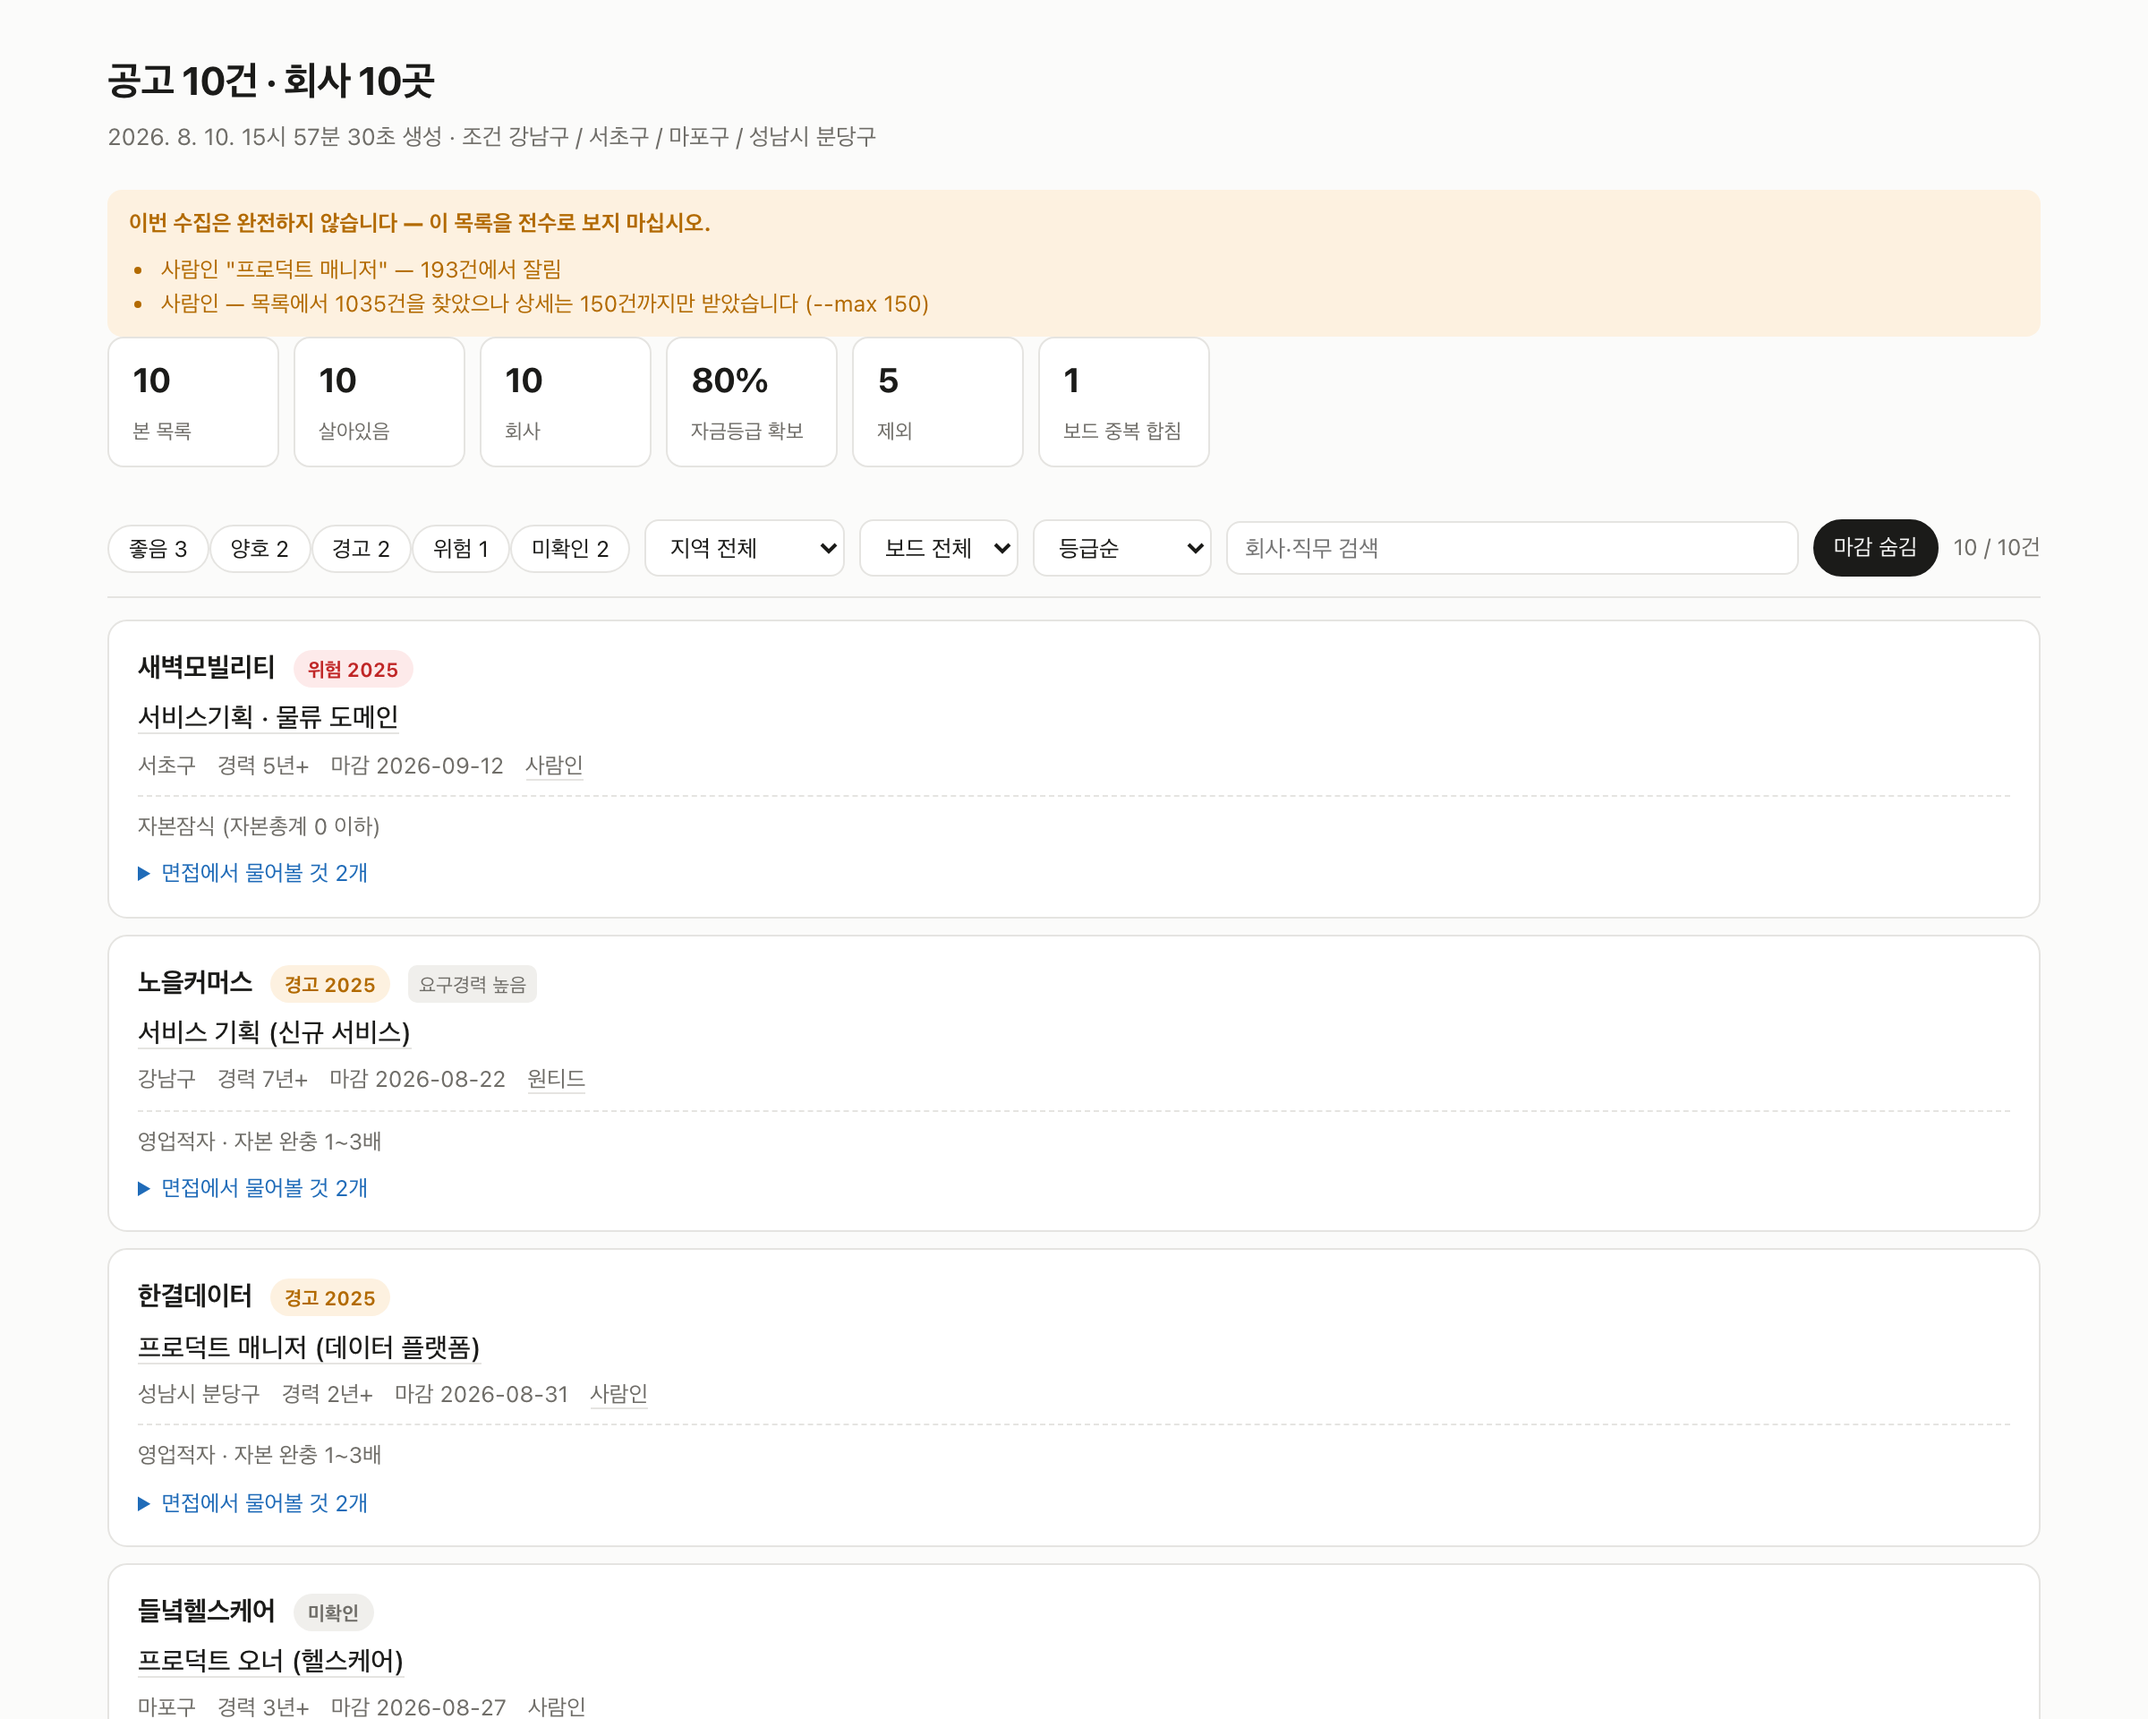
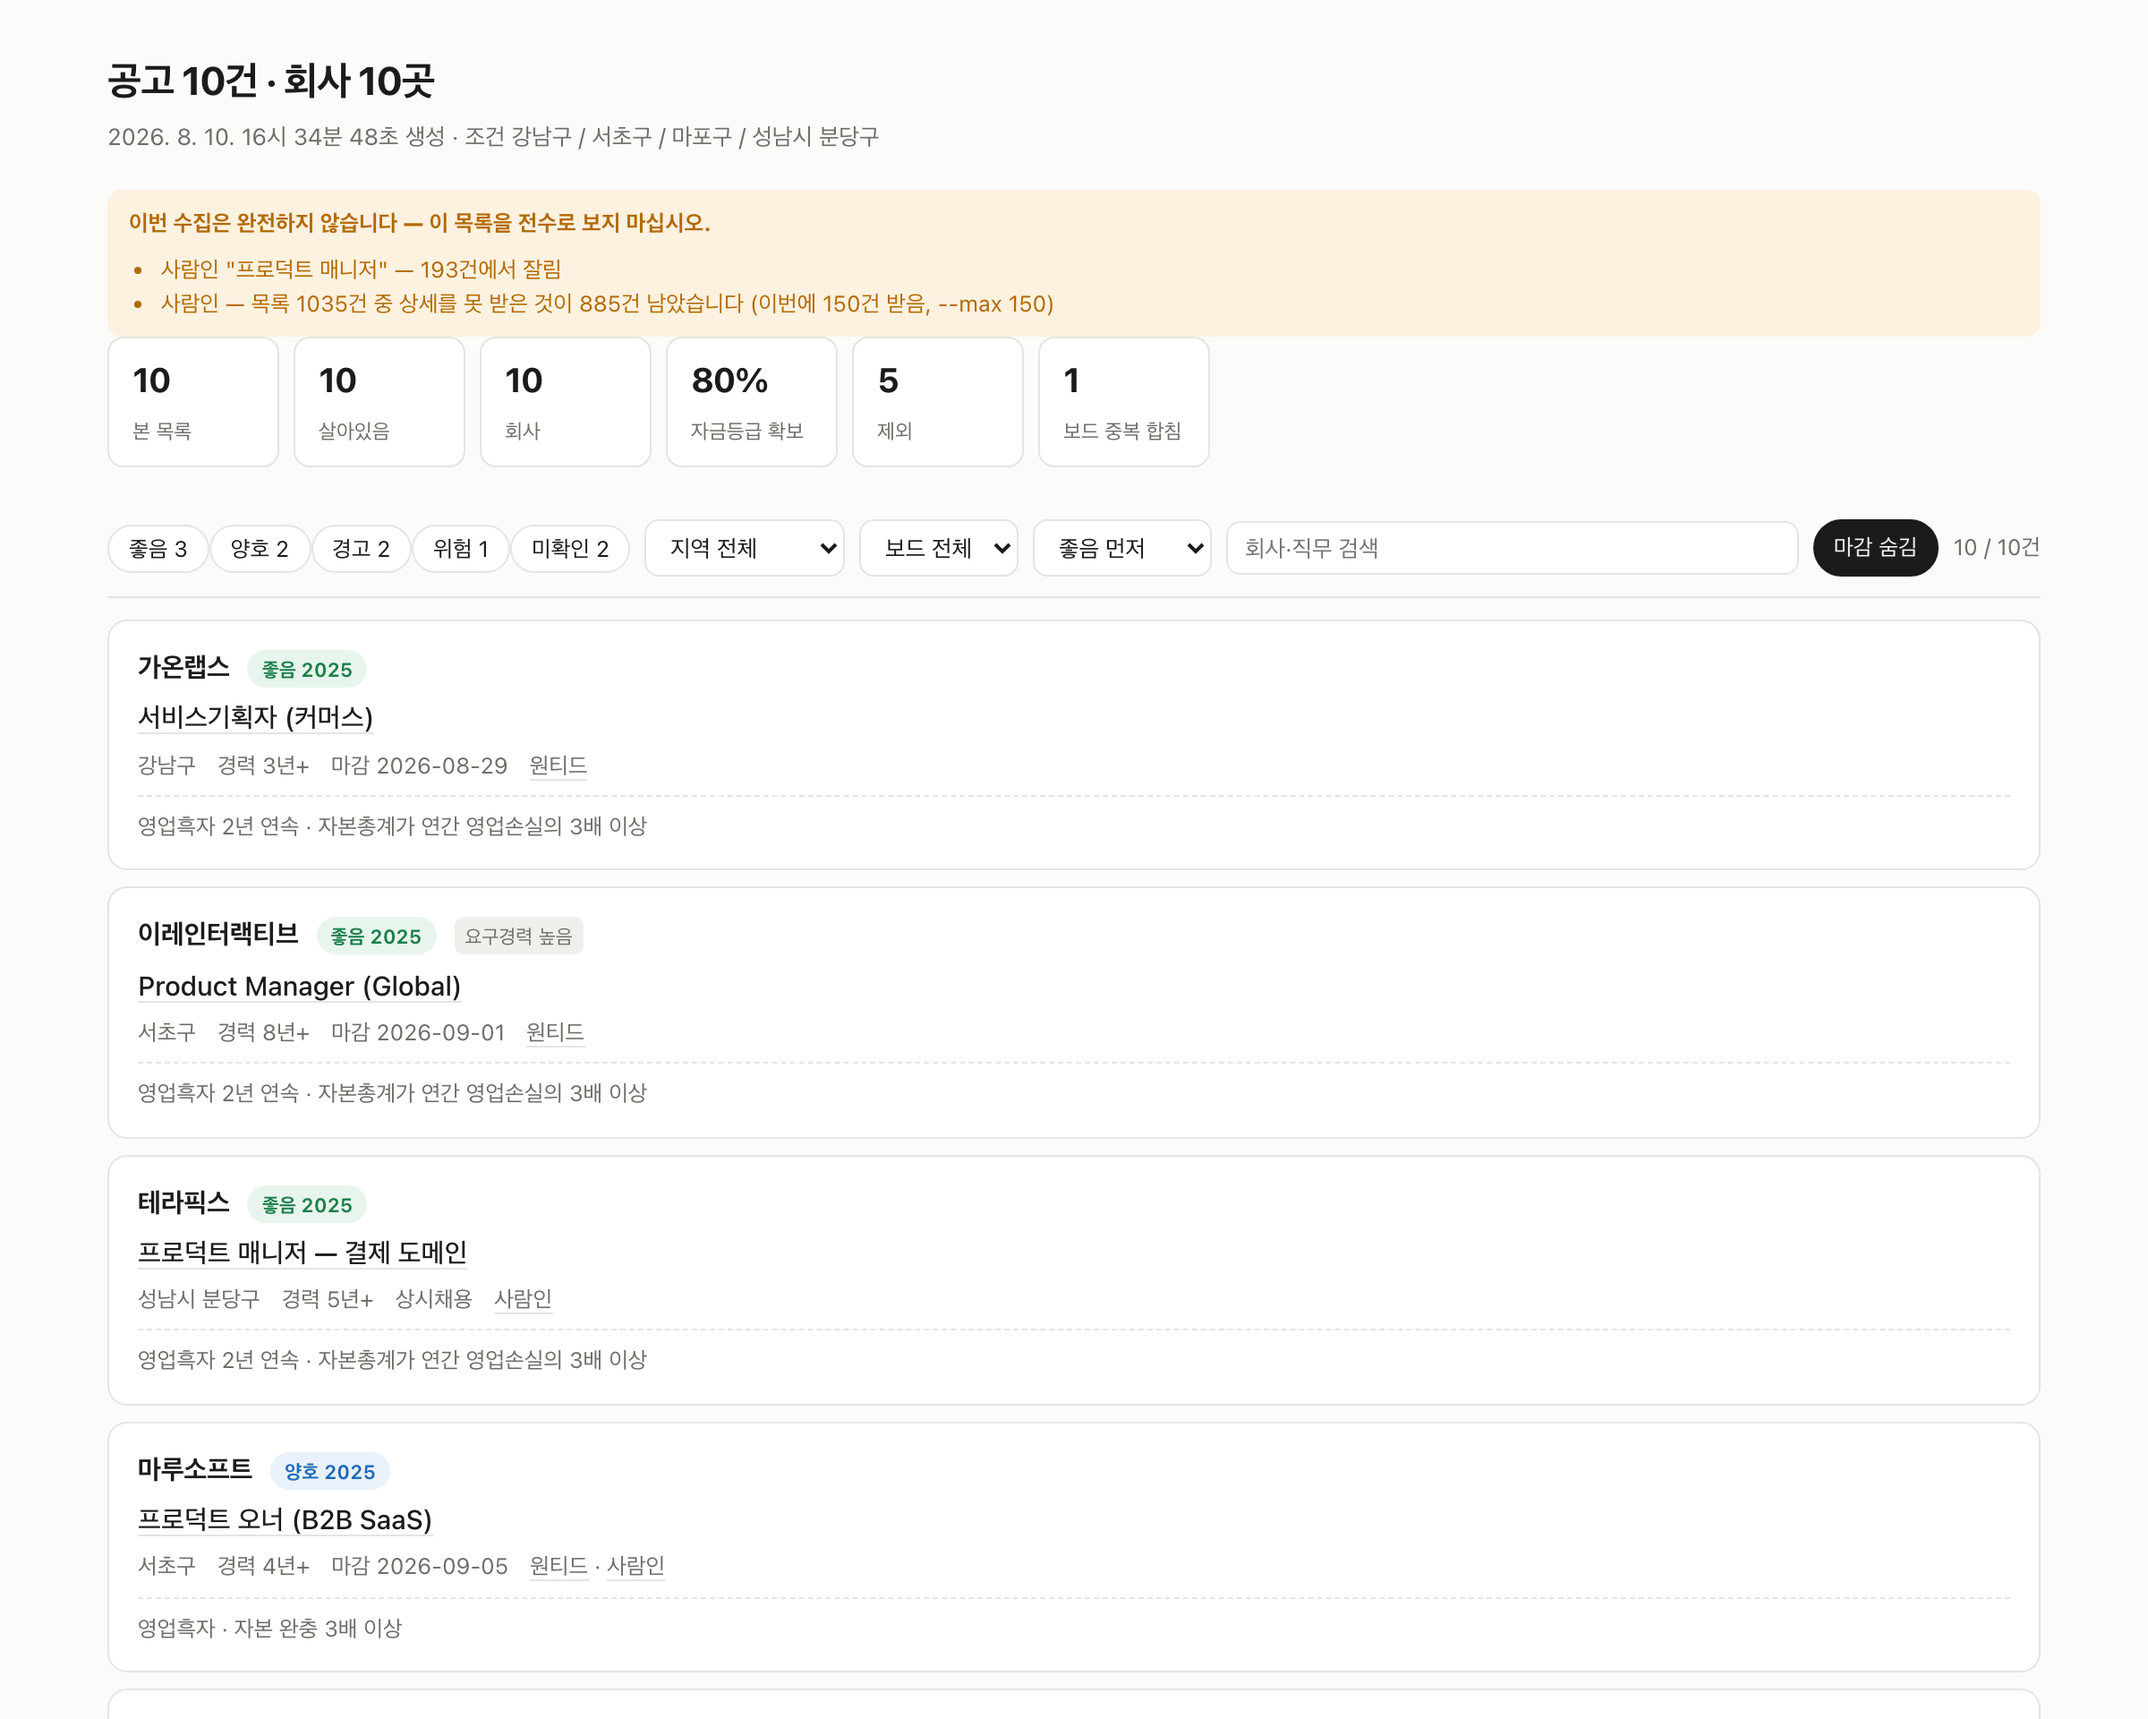
첫 실행은 상세 전량 · 상한은 받을 건수만 셈 · 기본 정렬 좋음 먼저 (D23~D25)
CEO 결정 3건 반영.

D23 첫 실행은 상한 없이 전량. 목록 유니크 1035건인데 기본 200이면 첫 목록이 19%다.
     처음 만들어진 목록이 5분의 1이면 사용자는 그 5분의 1을 자기 시장 전부로 읽는다 —
     경고 한 줄로는 첫 화면이 만드는 오해를 못 막는다.
     대신 말 없이 30분을 쓰지 않는다: 시작 전에 건수·예상 시간·줄이는 법을 먼저 적는다.

D24 상한이 세는 것을 후보 건수 → 실제로 받아야 하는 건수로. 고치다 찾은 것인데,
     재실행 때 앞 200건이 전부 캐시여도 예산이 소진돼 목록 뒤쪽의 새 공고가 영영 안 받아졌다.

D25 기본 정렬을 좋음 먼저로. 이 화면에서 하려는 일은 지원할 곳을 고르는 것이라
     위험이 위에 깔리면 정작 볼 것이 바닥에 간다. "등급순"은 방향을 말해 주지 않아
     라벨을 좋음 먼저 / 위험 먼저로 나눴다. 미확인은 양쪽 다 맨 뒤.

D23·D24 규칙은 lib/saramin.mjs 의 planDetailBudget 로 뺐다 — #66 에서
"스크립트 본문 출력은 테스트가 못 문다"고 적어 놓고 같은 자리에 규칙을 또 둘 수 없었다.

곁가지로 잘림 경고 문구도 고쳤다. "0/292 잘림"은 캐시분을 섞어 세어 실제보다 크게
잃은 것처럼 보였다 — 못 받은 건수를 따로 세어 앞에 놓는다.

회귀 320 → 338건 전부 통과, 통합 테스트 exit 0. 정렬 기본값·라벨은 통합 테스트가 감시한다.

diff --git a/skills/jd-search/scripts/templates/report.html b/skills/jd-search/scripts/templates/report.html
@@ -95,7 +95,8 @@ details.q li{margin-bottom:4px}
     <select id="region"></select>
     <select id="board"></select>
     <select id="sort">
-      <option value="grade">등급순</option>
+      <option value="grade">좋음 먼저</option>
+      <option value="risk">위험 먼저</option>
       <option value="recent">최신 수집순</option>
       <option value="company">회사명순</option>
       <option value="distance">직선거리순</option>
@@ -116,7 +117,12 @@ details.q li{margin-bottom:4px}
 const D = JSON.parse(document.getElementById('data').textContent);
 const $ = s => document.querySelector(s);
 const el = (t, c, x) => { const n = document.createElement(t); if (c) n.className = c; if (x != null) n.textContent = x; return n; };
-const ORDER = { r: 0, w: 1, u: 2, o: 3, g: 4 };
+// 🔴 기본은 **좋음 먼저**다. 사용자가 이 화면에서 하려는 일은 지원할 곳을 고르는 것이다.
+//    위험을 맨 위에 올리면 경고는 잘 보이지만 정작 볼 것이 목록 바닥에 깔린다.
+//    경고를 먼저 보고 싶을 때가 있어 "위험 먼저"를 따로 남겨 뒀다 — 라벨이 방향을 말하게 했다.
+//    미확인은 어느 방향에서도 맨 뒤다. 좋은 것도 나쁜 것도 아니라 **아직 모르는 것**이다.
+const ORDER = { g: 0, o: 1, w: 2, r: 3, u: 4 };
+const ORDER_RISK = { r: 0, w: 1, o: 2, g: 3, u: 4 };
 const state = { grades: new Set(), region: '', board: '', sort: 'grade', q: '', hideClosed: true };
 // 확장 지점 — serve 가 편집 UI를 얹는 곳. 정적 리포트에서는 비어 있다.
 // 🔴 편집 가능한 화면을 따로 만들지 않는다. UI가 두 벌이 되면 한쪽만 고쳐지고 둘이 갈라진다.
@@ -191,6 +197,7 @@ function draw() {
 
   rows.sort((a, b) => {
     if (state.sort === 'grade') return (ORDER[a.grade] - ORDER[b.grade]) || a.company.localeCompare(b.company, 'ko');
+    if (state.sort === 'risk') return (ORDER_RISK[a.grade] - ORDER_RISK[b.grade]) || a.company.localeCompare(b.company, 'ko');
     if (state.sort === 'company') return a.company.localeCompare(b.company, 'ko');
     if (state.sort === 'distance') return (a.straightKm ?? 9e9) - (b.straightKm ?? 9e9);
     return String(b.collectedAt ?? '').localeCompare(String(a.collectedAt ?? ''));

diff --git a/skills/jd-search/SKILL.md b/skills/jd-search/SKILL.md
@@ -136,7 +136,9 @@ description: 한국 채용공고를 여러 잡보드에서 한 번에 모으고,
 
 ```bash
 node scripts/collect_wanted.mjs          # 프로필의 target.roles 로 검색. --query 로 덮어쓸 수 있다
-node scripts/collect_saramin.mjs         # --pages(목록 깊이) · --max(상세 조회 상한, 기본 200)
+node scripts/collect_saramin.mjs         # --pages(목록 깊이) · --max(상세 조회 상한)
+                                         # 🔴 첫 실행은 상한 없이 전량이다(20~35분). 시작 전에 예상 시간을 알린다.
+                                         #    다음 실행부터 기본 200이고, 상한은 **새로 받아야 하는 건수**만 센다.
 node scripts/merge_boards.mjs            # --show 를 주면 아무것도 쓰지 않고 판정만 보여준다
 node scripts/gate.mjs
 node scripts/check_alive.mjs             # --all 이면 마감 건까지 · --board 로 한 보드만
@@ -499,7 +501,7 @@ skills/jd-search/scripts/
   collect_wanted.mjs · collect_saramin.mjs · merge_boards.mjs · gate.mjs · check_alive.mjs
   finance.mjs · resolve_company.mjs · render.mjs · serve.mjs · add_posting.mjs
   templates/report.html   🔴 정적 리포트와 serve 가 **같은 파일**을 쓴다 (serve 는 편집 계층만 얹는다)
-  test/run.mjs            회귀 테스트 320건 (네트워크 없이 돈다)
+  test/run.mjs            회귀 테스트 338건 (네트워크 없이 돈다)
   test/integration.mjs    단계 간 계약 — 임시 홈에서 merge·gate·render·serve 를 실제로 돌린다
 
 ~/.jd-search/<프로필ID>/
